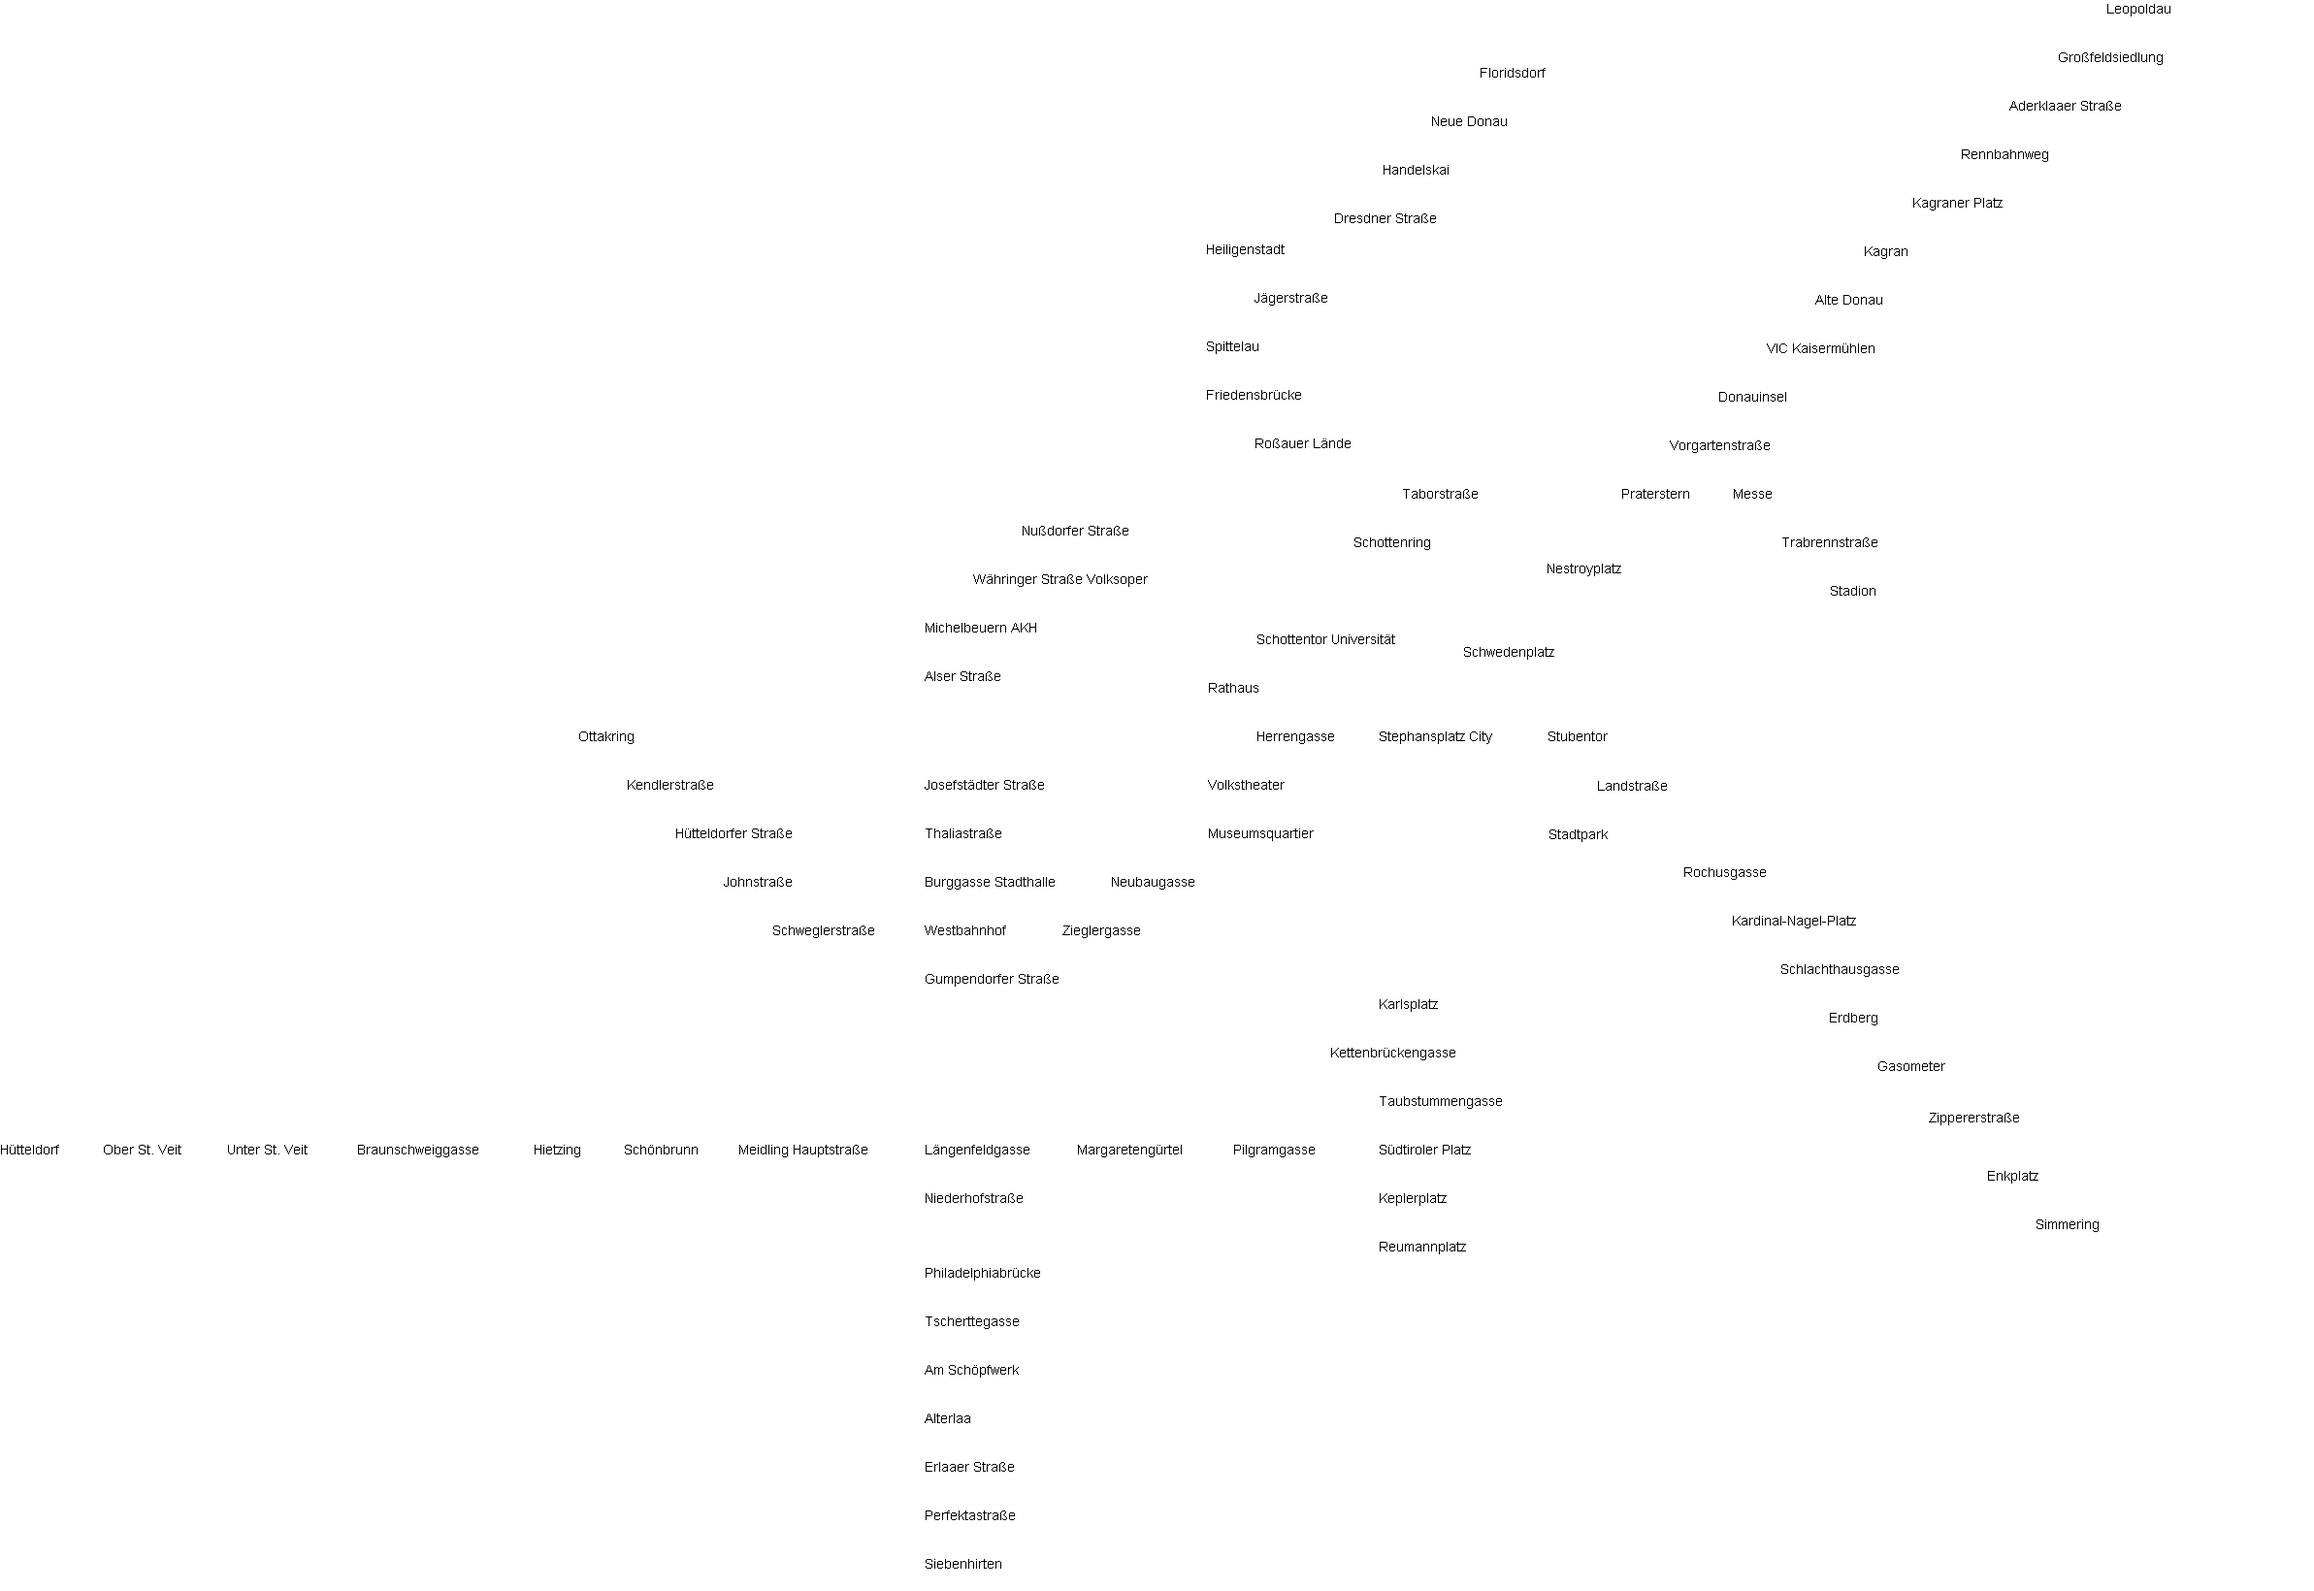
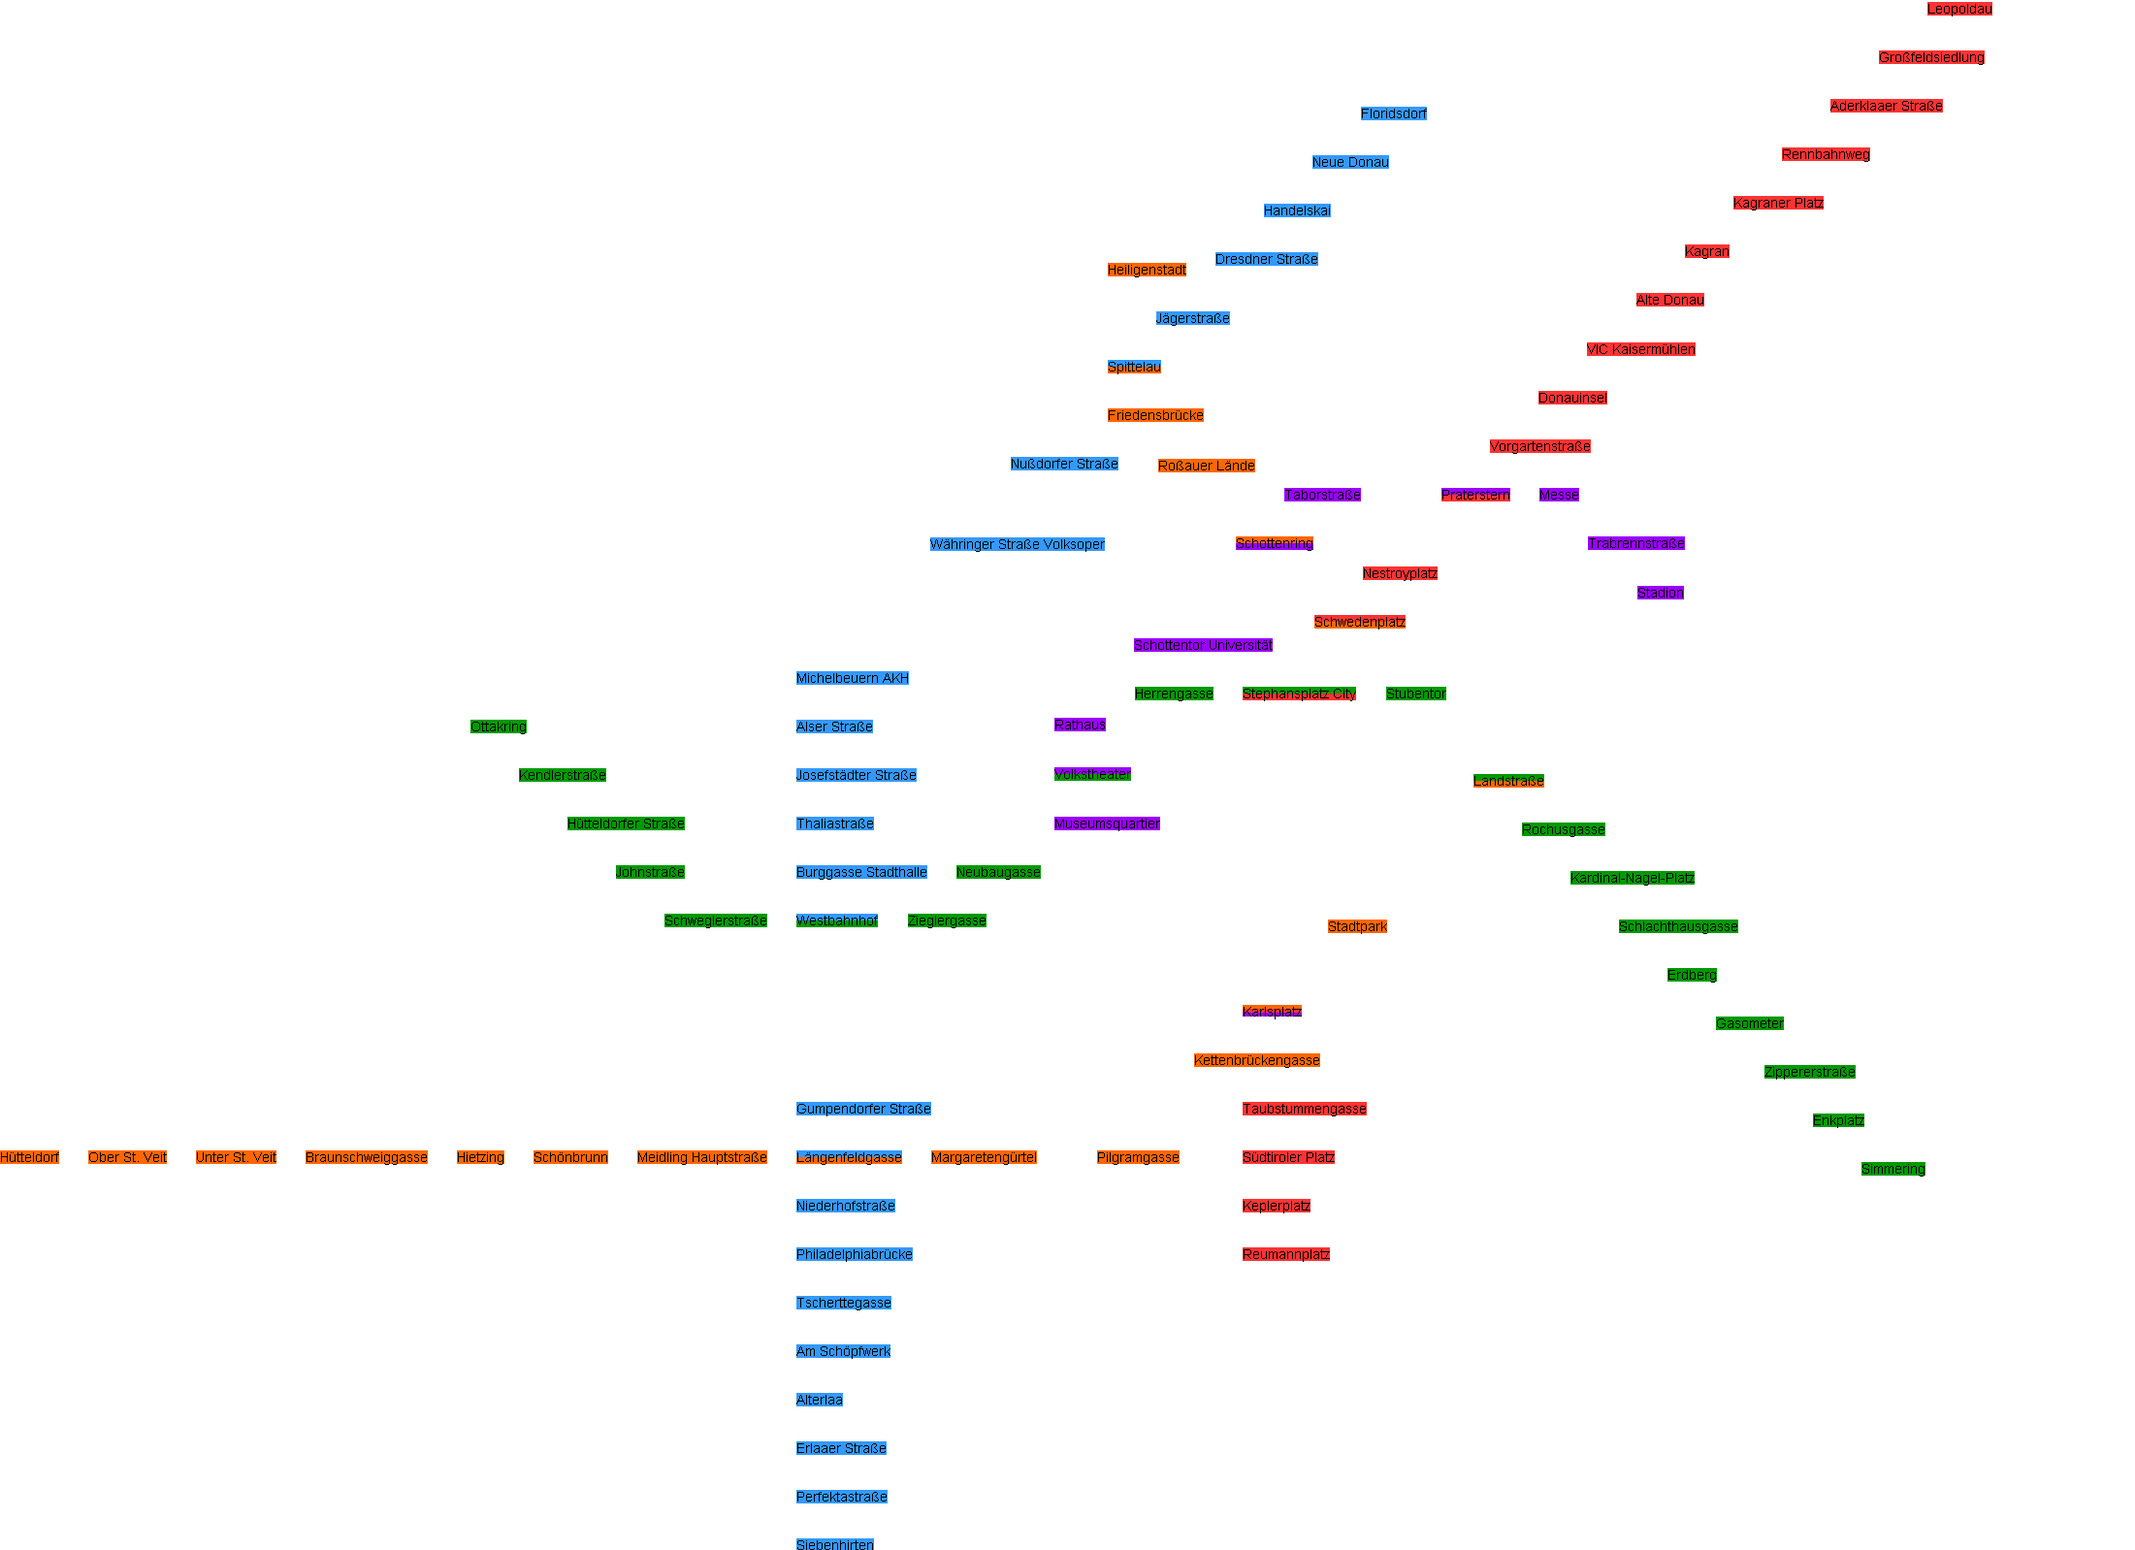
Färbung

diff --git a/Java/Metro Maps/src/MetroMap.java b/Java/Metro Maps/src/MetroMap.java
@@ -1,3 +1,4 @@
+import java.awt.Color;
 import java.util.ArrayList;
 import java.util.HashMap;
 import java.util.Map;
@@ -5,6 +6,13 @@ import java.util.Map;
 public class MetroMap {
 	private Map<String, Station> stations = new HashMap<String, Station>();
 	private Map<String, Line> lines = new HashMap<String, Line>();
+	private Color[] colors = new Color[]{
+			new Color(255,51,51),
+			new Color(0,153,0),
+			new Color(51,153,255),
+			new Color(255,102,0),
+			new Color(153,0,255),
+	};
 
 	public void addStation(Station station) {
 		stations.put(station.getName(), station);
@@ -25,6 +33,7 @@ public class MetroMap {
 
 	public void addLine(Line line) {
 		lines.put(line.getName(), line);
+		line.setColor(colors[lines.size()-1]);
 	}
 
 	public Line getLine(String name) {

diff --git a/Java/Metro Maps/src/XMLParser.java b/Java/Metro Maps/src/XMLParser.java
@@ -184,8 +184,15 @@ public class XMLParser {
 		graphics.setColor(Color.BLACK);
 		graphics.setFont(new Font("Arial", Font.PLAIN, 14));
 
+		Utility u = new Utility();
 		int i = 0;
 		for (Station station : stations) {
+			int n = station.getLines().size();
+			for(int j = 0; j < n; j++){
+				graphics.setColor(station.getLines().get(j).getColor());
+				graphics.fillRect((int) Math.round(x[i]), height - (int) Math.round(y[i]) - 12 + 14/n*j, u.getStringWidth(station.getName()), 14/n);
+			}
+			graphics.setColor(Color.BLACK);
 			graphics.drawString(station.getName(), (int) Math.round(x[i]), height - (int) Math.round(y[i]));
 			i++;
 		}

diff --git a/Java/Metro Maps/src/Solver.java b/Java/Metro Maps/src/Solver.java
@@ -13,7 +13,7 @@ public class Solver {
 		try {
 			// define new model
 			IloCplex cplex = new IloCplex();
-			cplex.setParam(IloCplex.Param.MIP.Tolerances.MIPGap, 0.07);
+			cplex.setParam(IloCplex.Param.MIP.Tolerances.MIPGap, 0.1);
 			
 			// variables
 			IloIntVar[] x = cplex.intVarArray(n, 0, Integer.MAX_VALUE);
@@ -35,7 +35,7 @@ public class Solver {
 				//objective.addTerm(y[i], 1);
 				for (int j = 0; j < n; j++) {
 					objective.addTerm(dx[i][j], 1);
-					objective.addTerm(dy[i][j], 1);
+					objective.addTerm(dy[i][j], 2);
 				}
 
 			}

diff --git a/Java/Metro Maps/src/Utility.java b/Java/Metro Maps/src/Utility.java
@@ -8,7 +8,7 @@ public class Utility {
 	public int getStringWidth(String str) {
 		BufferedImage i2 = new BufferedImage(1, 1, BufferedImage.TYPE_INT_RGB);
 		Graphics2D g = i2.createGraphics();
-		g.setFont(new Font("Arial Black", Font.PLAIN, 14));
+		g.setFont(new Font("Arial", Font.PLAIN, 14));
 		FontMetrics fm = g.getFontMetrics();
 		Rectangle2D bounds = fm.getStringBounds(str, g);
 		//return (int) bounds.getWidth();

diff --git a/Java/Metro Maps/src/Line.java b/Java/Metro Maps/src/Line.java
@@ -1,8 +1,10 @@
+import java.awt.Color;
 import java.util.ArrayList;
 
 public class Line {
 	private String name;
 	private ArrayList<Station> stations = new ArrayList<>();
+	private Color color;
 
 	Line(String n) {
 		name = n;
@@ -69,6 +71,14 @@ public class Line {
 				}
 			}
 		}
+	}
+	
+	public void setColor(Color c) {
+		color = c;
+	}
+	
+	public Color getColor() {
+		return color;
 	}
 
 	@Override

diff --git a/Java/Metro Maps/src/Core.java b/Java/Metro Maps/src/Core.java
@@ -5,7 +5,6 @@ public class Core {
 		// MetroMap map = parser.getMapFromXML("berlin.xml");
 		MetroMap map = parser.getMapFromXML("wien.graphml");
 		//System.out.println(map);
-		
 		Solver s = new Solver();
 		s.solve(map);
 	}
